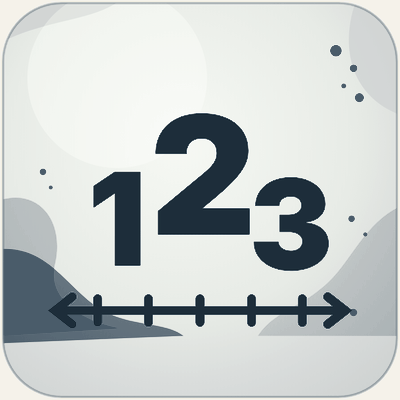
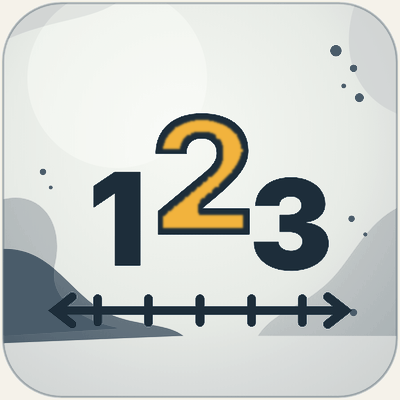
Gult inslag i ikonen för naturliga tal
Claude-Session: https://claude.ai/code/session_01FW4pkRfwxJFFBgcHcFTAjf

Changed region(s): [[0.39, 0.3, 0.63, 0.57]]

diff --git a/index.html b/index.html
@@ -4,11 +4,11 @@
 <meta name="description" content="Problemlösning med blockmodellen: genomgångar steg för steg och interaktiva övningar.">
 <link rel="preconnect" href="https://fonts.googleapis.com"><link rel="preconnect" href="https://fonts.gstatic.com" crossorigin>
 <link href="https://fonts.googleapis.com/css2?family=Fraunces:opsz,wght@9..144,600;9..144,700&family=Inter:wght@400;500;600;700;800;900&display=swap" rel="stylesheet">
-<link rel="icon" href="bilder/logo.svg?v=202611212302" type="image/svg+xml">
-<link rel="stylesheet" href="stil.css?v=202611212302">
+<link rel="icon" href="bilder/logo.svg?v=202611212304" type="image/svg+xml">
+<link rel="stylesheet" href="stil.css?v=202611212304">
 <style>:root{--ink:#253745;--mid:#9BA8AB;--l:#CCD0CF;--vl:#F7F8F8;--w:#F7F8F8;--hi:#9BA8AB;--bg:#F7F8F8;--ram:#CCD0CF;--knapp:#253745;--t:#F7F8F8;--tram:#D5DADA}</style>
 <style>.logo .bmlogo{flex:none}nav a.on{font-weight:800;text-decoration:underline;text-underline-offset:6px}</style></head><body>
-<header><div class="wrap"><a class="logo" href="index.html" aria-label="Mattekompassen, Örtagårdsskolan Malmö"><img src="bilder/kompass.png?v=202611212302" alt="" style="width:46px;height:46px"><span>Mattekompassen<small>Örtagårdsskolan Malmö</small></span></a>
+<header><div class="wrap"><a class="logo" href="index.html" aria-label="Mattekompassen, Örtagårdsskolan Malmö"><img src="bilder/kompass.png?v=202611212304" alt="" style="width:46px;height:46px"><span>Mattekompassen<small>Örtagårdsskolan Malmö</small></span></a>
 <div class="hoger"><nav aria-label="Huvudmeny"><a href="index.html" class="on">Uppgifter</a><a href="trana.html" class="">Slumpade uppgifter</a></nav></div></div></header>
 
 <style>section.panel.panel{background:linear-gradient(115deg,#E3E7E7,#CCD0CF)!important;box-shadow:inset 0 0 0 2px #9BA8AB!important}section.panel.panel h1{color:#11212D!important}section.panel.panel .etikett{color:#253745!important}section.panel.panel .sti,section.panel.panel .sti a{color:#253745!important}section.panel.panel p{color:#253745!important}.kapblock,.ovkort,.np .infobox,.pi-intro div,.pi-info>div{background:linear-gradient(110deg,#F7F8F8,#E3E7E7)!important;border:2px solid #CCD0CF!important;box-shadow:none}.typ,.bg-ruta,.bt-ruta,.bm-steg li,.bm-valj a,.bm-del,.bm-tips li,.pi-omr button,.pisa .enhet,.np .ib4>div,.upg,.r6k,.r6steg div,.r6kap a:not(.forst),.ruta,.kq-lruta{background:#fff!important;border:1.5px solid #D5DADA!important;border-top:6px solid #11212D!important}.kapblock h2,.kapblock h3:first-child,.r6sek,.r6k h3,.typ b,.bm-steg b{color:#253745}.knapp{background:#253745!important;color:#fff!important}</style><style>.panel{background:#E3E7E7!important;box-shadow:inset 0 0 0 2px #9BA8AB}.panel .sti,.panel .sti a{color:#4A5C6A}.panel h1{color:var(--ink)}.panel p{color:#253745;max-width:none}</style><div class="wrap"><section class="panel" style="background:#E3E7E7"><div><h1>Blockmodellen</h1><p>15 genomgångar i naturliga tal, bråk, förhållande och procent, med PPT, PDF och en interaktiv övning till varje. Längst ner finns slumpade uppgifter att träna på.</p></div></section></div><style>
@@ -61,6 +61,6 @@
 .bm-ov a{display:inline-flex;align-items:center;gap:6px;text-decoration:none;font-weight:700;font-size:15px;border-radius:999px;padding:8px 14px;background:#E9ECEC;border:1.5px solid #9BA8AB;color:#06141B}
 .bm-ov a:hover{background:#B4BEC0}.bm-ov a.slump{background:#11212D;border-color:#11212D;color:#fff}.bm-ov a.slump:hover{background:#253745}
 @media (max-width:900px){.bm-gg{grid-template-columns:1fr 1fr}}@media (max-width:600px){.bm-gg{grid-template-columns:1fr}.bm-omr{padding:14px 14px 16px}.bm-omr-h img{width:48px;height:48px;border-radius:12px}.bm-omr-h h2{font-size:21px}}
-</style><details class="bm-tank"><summary><span>Så tänker du</span><small>8 steg för att lösa en uppgift med blockmodellen</small></summary><ol class="bm-steg"><li><b>Läs hela uppgiften</b>Vem eller vad handlar uppgiften om?</li><li><b>Rita blocket</b>Ett block för det hela, eller för den som har minst. Rita de andra utifrån det.</li><li><b>Läs en gång till</b>Skriv in det du vet: talen och delarna som står i texten.</li><li><b>Vad söker vi?</b>Skriv ett ? där svaret ska stå.</li><li><b>Hur delar vi blocket?</b>Dela i lika stora delar. Är bråket eller procenten svår att visa? Dela i mindre delar.</li><li><b>Är det något som stör?</b>En liten extra del, en rabatt eller något som flyttas. Ta bort det och ändra talet.</li><li><b>Hur mycket är en del?</b>Dela talet du vet med antalet delar. Räkna sedan ut det du söker.</li><li><b>Svara och kontrollera</b>Svara med en hel mening. Är svaret rimligt?</li></ol></details><div id="blandade"><section class="bm-omr" id="tal"><div class="bm-omr-h"><img src="bilder/bm-tal.png?v=202611212302" alt=""><div><h2>Naturliga tal</h2><small>6 genomgångar · tre uppgifter i varje</small></div></div><div class="bm-gg"><div><span>1</span><em>Pärlproblemet</em><b><a href="https://drive.google.com/file/d/17Kt0o9oEqbsKeMjQ-DYdjIm5X_vjfPCh/view" target="_blank" rel="noopener">PPT</a><a class="pdf" href="pdf/blandade-02.pdf" target="_blank" rel="noopener">PDF</a><a class="ova" href="ova.html?l=2">Öva</a></b></div><div><span>2</span><em>Ryggsäcksproblemet</em><b><a href="https://drive.google.com/file/d/1OMk2tmF8yoeLj4kfQwA310-q7Bd5yBHd/view" target="_blank" rel="noopener">PPT</a><a class="pdf" href="pdf/blandade-04.pdf" target="_blank" rel="noopener">PDF</a><a class="ova" href="ova.html?l=4">Öva</a></b></div><div><span>3</span><em>Frimärksproblemet</em><b><a href="https://drive.google.com/file/d/1pQglbcg-EiJWTSiU6Dwevq3f0ULDbgb4/view" target="_blank" rel="noopener">PPT</a><a class="pdf" href="pdf/blandade-06.pdf" target="_blank" rel="noopener">PDF</a><a class="ova" href="ova.html?l=6">Öva</a></b></div><div><span>4</span><em>Åldersproblemet</em><b><a href="https://drive.google.com/file/d/1ZTQHDT-lgQtClPZrrIG-9wtgn8gQ7DVU/view" target="_blank" rel="noopener">PPT</a><a class="pdf" href="pdf/blandade-07.pdf" target="_blank" rel="noopener">PDF</a><a class="ova" href="ova.html?l=7">Öva</a></b></div><div><span>5</span><em>Biljettproblemet</em><b><a href="https://drive.google.com/file/d/17ylnughw92XObPvDfJ11sF3EDz65QB5t/view" target="_blank" rel="noopener">PPT</a><a class="pdf" href="pdf/blandade-08.pdf" target="_blank" rel="noopener">PDF</a><a class="ova" href="ova.html?l=8">Öva</a></b></div><div><span>6</span><em>Fickpengsproblemet</em><b><a href="https://drive.google.com/file/d/1dmgQJSduHHs5-DfGUHQt99nVvsS7_g1F/view" target="_blank" rel="noopener">PPT</a><a class="pdf" href="pdf/blandade-11.pdf" target="_blank" rel="noopener">PDF</a><a class="ova" href="ova.html?l=11">Öva</a></b></div></div><div class="bm-ov"><a class="slump" href="trana.html?omr=nat">Slumpade uppgifter: naturliga tal →</a></div></section><section class="bm-omr" id="brak"><div class="bm-omr-h"><img src="bilder/bm-brak.png?v=202611212302" alt=""><div><h2>Bråk</h2><small>3 genomgångar · tre uppgifter i varje</small></div></div><div class="bm-gg"><div><span>7</span><em>Campingproblemet</em><b><a href="https://drive.google.com/file/d/1QBiYS2irVUmERhYtTl7-DSw3yshJLF4N/view" target="_blank" rel="noopener">PPT</a><a class="pdf" href="pdf/blandade-01.pdf" target="_blank" rel="noopener">PDF</a><a class="ova" href="ova.html?l=1">Öva</a></b></div><div><span>8</span><em>Veckopengsproblemet</em><b><a href="https://drive.google.com/file/d/17ZrXr9yd_D8kfU-dGLnqT9yi520G04ab/view" target="_blank" rel="noopener">PPT</a><a class="pdf" href="pdf/blandade-05.pdf" target="_blank" rel="noopener">PDF</a><a class="ova" href="ova.html?l=5">Öva</a></b></div><div><span>9</span><em>Tankproblemet</em><b><a href="https://drive.google.com/file/d/1-d3l4B1OYmZgkZfy7c7Y4uGqGxeNanFu/view" target="_blank" rel="noopener">PPT</a><a class="pdf" href="pdf/blandade-12.pdf" target="_blank" rel="noopener">PDF</a><a class="ova" href="ova.html?l=12">Öva</a></b></div></div><div class="bm-ov"><a class="slump" href="trana.html?omr=brak">Slumpade uppgifter: bråk →</a></div></section><section class="bm-omr" id="forhallande"><div class="bm-omr-h"><img src="bilder/bm-forh.png?v=202611212302" alt=""><div><h2>Förhållande</h2><small>3 genomgångar · tre uppgifter i varje</small></div></div><div class="bm-gg"><div><span>10</span><em>Klubbproblemet</em><b><a href="https://drive.google.com/file/d/17JiUn-39sepv0XO5E1zyIT4X9HXgS92O/view" target="_blank" rel="noopener">PPT</a><a class="pdf" href="pdf/blandade-09.pdf" target="_blank" rel="noopener">PDF</a><a class="ova" href="ova.html?l=9">Öva</a></b></div><div><span>11</span><em>Saftproblemet</em><b><a href="https://drive.google.com/file/d/1-pATagABDABF_cw-JGKHqhd4kZ6KdXIF/view" target="_blank" rel="noopener">PPT</a><a class="pdf" href="pdf/blandade-13.pdf" target="_blank" rel="noopener">PDF</a><a class="ova" href="ova.html?l=13">Öva</a></b></div><div><span>12</span><em>Kortbytesproblemet</em><b><a href="https://drive.google.com/file/d/1OK4lUZ8Qu8js-u6cPWZ_2feRvTf1V2MI/view" target="_blank" rel="noopener">PPT</a><a class="pdf" href="pdf/blandade-14.pdf" target="_blank" rel="noopener">PDF</a><a class="ova" href="ova.html?l=14">Öva</a></b></div></div><div class="bm-ov"><a class="slump" href="trana.html?omr=forh">Slumpade uppgifter: förhållande →</a></div></section><section class="bm-omr" id="procent"><div class="bm-omr-h"><img src="bilder/bm-procent.png?v=202611212302" alt=""><div><h2>Procent</h2><small>3 genomgångar · tre uppgifter i varje</small></div></div><div class="bm-gg"><div><span>13</span><em>Rabatt i procent</em><b><a href="https://drive.google.com/file/d/17fC4mrEaEfd_HCdVPecIEBXufxIfdrN9/view" target="_blank" rel="noopener">PPT</a><a class="pdf" href="pdf/blandade-03.pdf" target="_blank" rel="noopener">PDF</a><a class="ova" href="ova.html?l=3">Öva</a></b></div><div><span>14</span><em>Prishöjningsproblemet</em><b><a href="https://drive.google.com/file/d/1zhxnCQ7BIQ_AB1IeHZQOvBYWyJb_HOE8/view" target="_blank" rel="noopener">PPT</a><a class="pdf" href="pdf/blandade-10.pdf" target="_blank" rel="noopener">PDF</a><a class="ova" href="ova.html?l=10">Öva</a></b></div><div><span>15</span><em>Andelsproblemet</em><b><a href="https://drive.google.com/file/d/1jKR5WJxMUtUbhwYYQ98gQioMq3ddlYSh/view" target="_blank" rel="noopener">PPT</a><a class="pdf" href="pdf/blandade-15.pdf" target="_blank" rel="noopener">PDF</a><a class="ova" href="ova.html?l=15">Öva</a></b></div></div><div class="bm-ov"><a class="slump" href="trana.html?omr=proc">Slumpade uppgifter: procent →</a></div></section></div><a class="bm-slump" href="trana.html"><span class="bm-slump-t"><b>Slumpade uppgifter</b><small>Blandat från alla områden, med nya tal och namn varje gång. Lös dem steg för steg.</small></span><em>Starta →</em></a></div></section></main><style>.m6h i.eik{width:60px!important;height:60px!important}.bm-valj i.eik{width:58px!important;height:58px!important}.bm-del>i.eik{width:64px!important;height:64px!important}</style>
+</style><details class="bm-tank"><summary><span>Så tänker du</span><small>8 steg för att lösa en uppgift med blockmodellen</small></summary><ol class="bm-steg"><li><b>Läs hela uppgiften</b>Vem eller vad handlar uppgiften om?</li><li><b>Rita blocket</b>Ett block för det hela, eller för den som har minst. Rita de andra utifrån det.</li><li><b>Läs en gång till</b>Skriv in det du vet: talen och delarna som står i texten.</li><li><b>Vad söker vi?</b>Skriv ett ? där svaret ska stå.</li><li><b>Hur delar vi blocket?</b>Dela i lika stora delar. Är bråket eller procenten svår att visa? Dela i mindre delar.</li><li><b>Är det något som stör?</b>En liten extra del, en rabatt eller något som flyttas. Ta bort det och ändra talet.</li><li><b>Hur mycket är en del?</b>Dela talet du vet med antalet delar. Räkna sedan ut det du söker.</li><li><b>Svara och kontrollera</b>Svara med en hel mening. Är svaret rimligt?</li></ol></details><div id="blandade"><section class="bm-omr" id="tal"><div class="bm-omr-h"><img src="bilder/bm-tal.png?v=202611212304" alt=""><div><h2>Naturliga tal</h2><small>6 genomgångar · tre uppgifter i varje</small></div></div><div class="bm-gg"><div><span>1</span><em>Pärlproblemet</em><b><a href="https://drive.google.com/file/d/17Kt0o9oEqbsKeMjQ-DYdjIm5X_vjfPCh/view" target="_blank" rel="noopener">PPT</a><a class="pdf" href="pdf/blandade-02.pdf" target="_blank" rel="noopener">PDF</a><a class="ova" href="ova.html?l=2">Öva</a></b></div><div><span>2</span><em>Ryggsäcksproblemet</em><b><a href="https://drive.google.com/file/d/1OMk2tmF8yoeLj4kfQwA310-q7Bd5yBHd/view" target="_blank" rel="noopener">PPT</a><a class="pdf" href="pdf/blandade-04.pdf" target="_blank" rel="noopener">PDF</a><a class="ova" href="ova.html?l=4">Öva</a></b></div><div><span>3</span><em>Frimärksproblemet</em><b><a href="https://drive.google.com/file/d/1pQglbcg-EiJWTSiU6Dwevq3f0ULDbgb4/view" target="_blank" rel="noopener">PPT</a><a class="pdf" href="pdf/blandade-06.pdf" target="_blank" rel="noopener">PDF</a><a class="ova" href="ova.html?l=6">Öva</a></b></div><div><span>4</span><em>Åldersproblemet</em><b><a href="https://drive.google.com/file/d/1ZTQHDT-lgQtClPZrrIG-9wtgn8gQ7DVU/view" target="_blank" rel="noopener">PPT</a><a class="pdf" href="pdf/blandade-07.pdf" target="_blank" rel="noopener">PDF</a><a class="ova" href="ova.html?l=7">Öva</a></b></div><div><span>5</span><em>Biljettproblemet</em><b><a href="https://drive.google.com/file/d/17ylnughw92XObPvDfJ11sF3EDz65QB5t/view" target="_blank" rel="noopener">PPT</a><a class="pdf" href="pdf/blandade-08.pdf" target="_blank" rel="noopener">PDF</a><a class="ova" href="ova.html?l=8">Öva</a></b></div><div><span>6</span><em>Fickpengsproblemet</em><b><a href="https://drive.google.com/file/d/1dmgQJSduHHs5-DfGUHQt99nVvsS7_g1F/view" target="_blank" rel="noopener">PPT</a><a class="pdf" href="pdf/blandade-11.pdf" target="_blank" rel="noopener">PDF</a><a class="ova" href="ova.html?l=11">Öva</a></b></div></div><div class="bm-ov"><a class="slump" href="trana.html?omr=nat">Slumpade uppgifter: naturliga tal →</a></div></section><section class="bm-omr" id="brak"><div class="bm-omr-h"><img src="bilder/bm-brak.png?v=202611212304" alt=""><div><h2>Bråk</h2><small>3 genomgångar · tre uppgifter i varje</small></div></div><div class="bm-gg"><div><span>7</span><em>Campingproblemet</em><b><a href="https://drive.google.com/file/d/1QBiYS2irVUmERhYtTl7-DSw3yshJLF4N/view" target="_blank" rel="noopener">PPT</a><a class="pdf" href="pdf/blandade-01.pdf" target="_blank" rel="noopener">PDF</a><a class="ova" href="ova.html?l=1">Öva</a></b></div><div><span>8</span><em>Veckopengsproblemet</em><b><a href="https://drive.google.com/file/d/17ZrXr9yd_D8kfU-dGLnqT9yi520G04ab/view" target="_blank" rel="noopener">PPT</a><a class="pdf" href="pdf/blandade-05.pdf" target="_blank" rel="noopener">PDF</a><a class="ova" href="ova.html?l=5">Öva</a></b></div><div><span>9</span><em>Tankproblemet</em><b><a href="https://drive.google.com/file/d/1-d3l4B1OYmZgkZfy7c7Y4uGqGxeNanFu/view" target="_blank" rel="noopener">PPT</a><a class="pdf" href="pdf/blandade-12.pdf" target="_blank" rel="noopener">PDF</a><a class="ova" href="ova.html?l=12">Öva</a></b></div></div><div class="bm-ov"><a class="slump" href="trana.html?omr=brak">Slumpade uppgifter: bråk →</a></div></section><section class="bm-omr" id="forhallande"><div class="bm-omr-h"><img src="bilder/bm-forh.png?v=202611212304" alt=""><div><h2>Förhållande</h2><small>3 genomgångar · tre uppgifter i varje</small></div></div><div class="bm-gg"><div><span>10</span><em>Klubbproblemet</em><b><a href="https://drive.google.com/file/d/17JiUn-39sepv0XO5E1zyIT4X9HXgS92O/view" target="_blank" rel="noopener">PPT</a><a class="pdf" href="pdf/blandade-09.pdf" target="_blank" rel="noopener">PDF</a><a class="ova" href="ova.html?l=9">Öva</a></b></div><div><span>11</span><em>Saftproblemet</em><b><a href="https://drive.google.com/file/d/1-pATagABDABF_cw-JGKHqhd4kZ6KdXIF/view" target="_blank" rel="noopener">PPT</a><a class="pdf" href="pdf/blandade-13.pdf" target="_blank" rel="noopener">PDF</a><a class="ova" href="ova.html?l=13">Öva</a></b></div><div><span>12</span><em>Kortbytesproblemet</em><b><a href="https://drive.google.com/file/d/1OK4lUZ8Qu8js-u6cPWZ_2feRvTf1V2MI/view" target="_blank" rel="noopener">PPT</a><a class="pdf" href="pdf/blandade-14.pdf" target="_blank" rel="noopener">PDF</a><a class="ova" href="ova.html?l=14">Öva</a></b></div></div><div class="bm-ov"><a class="slump" href="trana.html?omr=forh">Slumpade uppgifter: förhållande →</a></div></section><section class="bm-omr" id="procent"><div class="bm-omr-h"><img src="bilder/bm-procent.png?v=202611212304" alt=""><div><h2>Procent</h2><small>3 genomgångar · tre uppgifter i varje</small></div></div><div class="bm-gg"><div><span>13</span><em>Rabatt i procent</em><b><a href="https://drive.google.com/file/d/17fC4mrEaEfd_HCdVPecIEBXufxIfdrN9/view" target="_blank" rel="noopener">PPT</a><a class="pdf" href="pdf/blandade-03.pdf" target="_blank" rel="noopener">PDF</a><a class="ova" href="ova.html?l=3">Öva</a></b></div><div><span>14</span><em>Prishöjningsproblemet</em><b><a href="https://drive.google.com/file/d/1zhxnCQ7BIQ_AB1IeHZQOvBYWyJb_HOE8/view" target="_blank" rel="noopener">PPT</a><a class="pdf" href="pdf/blandade-10.pdf" target="_blank" rel="noopener">PDF</a><a class="ova" href="ova.html?l=10">Öva</a></b></div><div><span>15</span><em>Andelsproblemet</em><b><a href="https://drive.google.com/file/d/1jKR5WJxMUtUbhwYYQ98gQioMq3ddlYSh/view" target="_blank" rel="noopener">PPT</a><a class="pdf" href="pdf/blandade-15.pdf" target="_blank" rel="noopener">PDF</a><a class="ova" href="ova.html?l=15">Öva</a></b></div></div><div class="bm-ov"><a class="slump" href="trana.html?omr=proc">Slumpade uppgifter: procent →</a></div></section></div><a class="bm-slump" href="trana.html"><span class="bm-slump-t"><b>Slumpade uppgifter</b><small>Blandat från alla områden, med nya tal och namn varje gång. Lös dem steg för steg.</small></span><em>Starta →</em></a></div></section></main><style>.m6h i.eik{width:60px!important;height:60px!important}.bm-valj i.eik{width:58px!important;height:58px!important}.bm-del>i.eik{width:64px!important;height:64px!important}</style>
 <footer><div class="wrap"><b>Blockmodellen – en del av Mattekompassen</b><span><a href="https://mattekompassen.se" style="color:inherit;font-weight:700">Till Mattekompassen: mattekompassen.se →</a></span></div></footer>
 </body></html>

diff --git a/ova.html b/ova.html
@@ -4,11 +4,11 @@
 <meta name="description" content="Interaktiv övning till genomgångarna med blockmodellen.">
 <link rel="preconnect" href="https://fonts.googleapis.com"><link rel="preconnect" href="https://fonts.gstatic.com" crossorigin>
 <link href="https://fonts.googleapis.com/css2?family=Fraunces:opsz,wght@9..144,600;9..144,700&family=Inter:wght@400;500;600;700;800;900&display=swap" rel="stylesheet">
-<link rel="icon" href="bilder/logo.svg?v=202611212302" type="image/svg+xml">
-<link rel="stylesheet" href="stil.css?v=202611212302">
+<link rel="icon" href="bilder/logo.svg?v=202611212304" type="image/svg+xml">
+<link rel="stylesheet" href="stil.css?v=202611212304">
 <style>:root{--ink:#253745;--mid:#9BA8AB;--l:#CCD0CF;--vl:#F7F8F8;--w:#F7F8F8;--hi:#9BA8AB;--bg:#F7F8F8;--ram:#CCD0CF;--knapp:#253745;--t:#F7F8F8;--tram:#D5DADA}</style>
 <style>.logo .bmlogo{flex:none}nav a.on{font-weight:800;text-decoration:underline;text-underline-offset:6px}</style></head><body>
-<header><div class="wrap"><a class="logo" href="index.html" aria-label="Mattekompassen, Örtagårdsskolan Malmö"><img src="bilder/kompass.png?v=202611212302" alt="" style="width:46px;height:46px"><span>Mattekompassen<small>Örtagårdsskolan Malmö</small></span></a>
+<header><div class="wrap"><a class="logo" href="index.html" aria-label="Mattekompassen, Örtagårdsskolan Malmö"><img src="bilder/kompass.png?v=202611212304" alt="" style="width:46px;height:46px"><span>Mattekompassen<small>Örtagårdsskolan Malmö</small></span></a>
 <div class="hoger"><nav aria-label="Huvudmeny"><a href="index.html" class="">Uppgifter</a><a href="trana.html" class="">Slumpade uppgifter</a></nav></div></div></header>
 
 <style>section.panel.panel{background:linear-gradient(115deg,#E3E7E7,#CCD0CF)!important;box-shadow:inset 0 0 0 2px #9BA8AB!important}section.panel.panel h1{color:#11212D!important}section.panel.panel .etikett{color:#253745!important}section.panel.panel .sti,section.panel.panel .sti a{color:#253745!important}section.panel.panel p{color:#253745!important}.kapblock,.ovkort,.np .infobox,.pi-intro div,.pi-info>div{background:linear-gradient(110deg,#F7F8F8,#E3E7E7)!important;border:2px solid #CCD0CF!important;box-shadow:none}.typ,.bg-ruta,.bt-ruta,.bm-steg li,.bm-valj a,.bm-del,.bm-tips li,.pi-omr button,.pisa .enhet,.np .ib4>div,.upg,.r6k,.r6steg div,.r6kap a:not(.forst),.ruta,.kq-lruta{background:#fff!important;border:1.5px solid #D5DADA!important;border-top:6px solid #11212D!important}.kapblock h2,.kapblock h3:first-child,.r6sek,.r6k h3,.typ b,.bm-steg b{color:#253745}.knapp{background:#253745!important;color:#fff!important}</style><style>.panel{background:#E3E7E7!important;box-shadow:inset 0 0 0 2px #9BA8AB}.panel .sti,.panel .sti a{color:#4A5C6A}.panel h1{color:var(--ink)}.panel p{color:#253745;max-width:none}</style><div class="wrap"><section class="panel" style="background:#E3E7E7"><div><h1><a href="index.html" style="color:inherit;text-decoration:none">Blockmodellen</a></h1><p><span class="bm-under">Öva: blandade uppgifter</span>Samma tre uppgifter som i genomgången, men med nya tal. Lös dem steg för steg med blocken.</p></div></section></div><style>
@@ -55,6 +55,6 @@
 .bmo-prog span.nu{background:#11212D;color:#fff;border-color:#11212D}.bmo-prog span.klar{background:#D9DEDE;border-color:#2E6B5E;color:#24564B}
 .bmo-allt{margin:14px 0 0;font-size:16px;font-weight:700;color:#24564B}
 </style><style>.panel p .bm-under{display:block;font-family:Inter,sans-serif;font-weight:800;font-size:22px;color:#3D4F5C;margin:0 0 6px}</style>
-<main><section><div class="wrap"><div id="bmova"></div><div style="max-width:900px;margin:22px auto 0"><a class="knapp" href="index.html#blandade">← Alla genomgångar</a></div></div></section></main><script src="js/blandade-ova.js?v=202611212302"></script><script src="js/blockmodell-ova.js?v=202611212302"></script><script>(function(){var L={"2": ["Pärlproblemet", "Naturliga tal", "tal"], "4": ["Ryggsäcksproblemet", "Naturliga tal", "tal"], "6": ["Frimärksproblemet", "Naturliga tal", "tal"], "7": ["Åldersproblemet", "Naturliga tal", "tal"], "8": ["Biljettproblemet", "Naturliga tal", "tal"], "11": ["Fickpengsproblemet", "Naturliga tal", "tal"], "1": ["Campingproblemet", "Bråk", "brak"], "5": ["Veckopengsproblemet", "Bråk", "brak"], "12": ["Tankproblemet", "Bråk", "brak"], "9": ["Klubbproblemet", "Förhållande", "forhallande"], "13": ["Saftproblemet", "Förhållande", "forhallande"], "14": ["Kortbytesproblemet", "Förhållande", "forhallande"], "3": ["Rabatt i procent", "Procent", "procent"], "10": ["Prishöjningsproblemet", "Procent", "procent"], "15": ["Andelsproblemet", "Procent", "procent"]},l=new URLSearchParams(location.search).get("l")||"1",x=L[l];if(!x)return;var u=document.querySelector(".bm-under");if(u)u.textContent="Öva: "+x[1].toLowerCase();document.title="Öva: "+x[0]+" – Blockmodellen";var k=document.querySelector("main a.knapp");if(k){k.href="index.html#"+x[2];k.textContent="← "+x[1]}})()</script><style>.m6h i.eik{width:60px!important;height:60px!important}.bm-valj i.eik{width:58px!important;height:58px!important}.bm-del>i.eik{width:64px!important;height:64px!important}</style>
+<main><section><div class="wrap"><div id="bmova"></div><div style="max-width:900px;margin:22px auto 0"><a class="knapp" href="index.html#blandade">← Alla genomgångar</a></div></div></section></main><script src="js/blandade-ova.js?v=202611212304"></script><script src="js/blockmodell-ova.js?v=202611212304"></script><script>(function(){var L={"2": ["Pärlproblemet", "Naturliga tal", "tal"], "4": ["Ryggsäcksproblemet", "Naturliga tal", "tal"], "6": ["Frimärksproblemet", "Naturliga tal", "tal"], "7": ["Åldersproblemet", "Naturliga tal", "tal"], "8": ["Biljettproblemet", "Naturliga tal", "tal"], "11": ["Fickpengsproblemet", "Naturliga tal", "tal"], "1": ["Campingproblemet", "Bråk", "brak"], "5": ["Veckopengsproblemet", "Bråk", "brak"], "12": ["Tankproblemet", "Bråk", "brak"], "9": ["Klubbproblemet", "Förhållande", "forhallande"], "13": ["Saftproblemet", "Förhållande", "forhallande"], "14": ["Kortbytesproblemet", "Förhållande", "forhallande"], "3": ["Rabatt i procent", "Procent", "procent"], "10": ["Prishöjningsproblemet", "Procent", "procent"], "15": ["Andelsproblemet", "Procent", "procent"]},l=new URLSearchParams(location.search).get("l")||"1",x=L[l];if(!x)return;var u=document.querySelector(".bm-under");if(u)u.textContent="Öva: "+x[1].toLowerCase();document.title="Öva: "+x[0]+" – Blockmodellen";var k=document.querySelector("main a.knapp");if(k){k.href="index.html#"+x[2];k.textContent="← "+x[1]}})()</script><style>.m6h i.eik{width:60px!important;height:60px!important}.bm-valj i.eik{width:58px!important;height:58px!important}.bm-del>i.eik{width:64px!important;height:64px!important}</style>
 <footer><div class="wrap"><b>Blockmodellen – en del av Mattekompassen</b><span><a href="https://mattekompassen.se" style="color:inherit;font-weight:700">Till Mattekompassen: mattekompassen.se →</a></span></div></footer>
 </body></html>

diff --git a/trana.html b/trana.html
@@ -4,11 +4,11 @@
 <meta name="description" content="Interaktiva övningar med blockmodellen, nya tal varje gång.">
 <link rel="preconnect" href="https://fonts.googleapis.com"><link rel="preconnect" href="https://fonts.gstatic.com" crossorigin>
 <link href="https://fonts.googleapis.com/css2?family=Fraunces:opsz,wght@9..144,600;9..144,700&family=Inter:wght@400;500;600;700;800;900&display=swap" rel="stylesheet">
-<link rel="icon" href="bilder/logo.svg?v=202611212302" type="image/svg+xml">
-<link rel="stylesheet" href="stil.css?v=202611212302">
+<link rel="icon" href="bilder/logo.svg?v=202611212304" type="image/svg+xml">
+<link rel="stylesheet" href="stil.css?v=202611212304">
 <style>:root{--ink:#253745;--mid:#9BA8AB;--l:#CCD0CF;--vl:#F7F8F8;--w:#F7F8F8;--hi:#9BA8AB;--bg:#F7F8F8;--ram:#CCD0CF;--knapp:#253745;--t:#F7F8F8;--tram:#D5DADA}</style>
 <style>.logo .bmlogo{flex:none}nav a.on{font-weight:800;text-decoration:underline;text-underline-offset:6px}</style></head><body>
-<header><div class="wrap"><a class="logo" href="index.html" aria-label="Mattekompassen, Örtagårdsskolan Malmö"><img src="bilder/kompass.png?v=202611212302" alt="" style="width:46px;height:46px"><span>Mattekompassen<small>Örtagårdsskolan Malmö</small></span></a>
+<header><div class="wrap"><a class="logo" href="index.html" aria-label="Mattekompassen, Örtagårdsskolan Malmö"><img src="bilder/kompass.png?v=202611212304" alt="" style="width:46px;height:46px"><span>Mattekompassen<small>Örtagårdsskolan Malmö</small></span></a>
 <div class="hoger"><nav aria-label="Huvudmeny"><a href="index.html" class="">Uppgifter</a><a href="trana.html" class="on">Slumpade uppgifter</a></nav></div></div></header>
 
 <style>section.panel.panel{background:linear-gradient(115deg,#E3E7E7,#CCD0CF)!important;box-shadow:inset 0 0 0 2px #9BA8AB!important}section.panel.panel h1{color:#11212D!important}section.panel.panel .etikett{color:#253745!important}section.panel.panel .sti,section.panel.panel .sti a{color:#253745!important}section.panel.panel p{color:#253745!important}.kapblock,.ovkort,.np .infobox,.pi-intro div,.pi-info>div{background:linear-gradient(110deg,#F7F8F8,#E3E7E7)!important;border:2px solid #CCD0CF!important;box-shadow:none}.typ,.bg-ruta,.bt-ruta,.bm-steg li,.bm-valj a,.bm-del,.bm-tips li,.pi-omr button,.pisa .enhet,.np .ib4>div,.upg,.r6k,.r6steg div,.r6kap a:not(.forst),.ruta,.kq-lruta{background:#fff!important;border:1.5px solid #D5DADA!important;border-top:6px solid #11212D!important}.kapblock h2,.kapblock h3:first-child,.r6sek,.r6k h3,.typ b,.bm-steg b{color:#253745}.knapp{background:#253745!important;color:#fff!important}</style><style>.panel{background:#E3E7E7!important;box-shadow:inset 0 0 0 2px #9BA8AB}.panel .sti,.panel .sti a{color:#4A5C6A}.panel h1{color:var(--ink)}.panel p{color:#253745;max-width:none}</style><div class="wrap"><section class="panel" style="background:#E3E7E7"><div><h1><a href="index.html" style="color:inherit;text-decoration:none">Blockmodellen</a></h1><p><span class="bm-under">Slumpade uppgifter</span>Välj ett område eller blandat. Du får en ny uppgift med nya tal varje gång och löser den steg för steg med blocken.</p></div></section></div><style>
@@ -55,6 +55,6 @@
 .bmo-prog span.nu{background:#11212D;color:#fff;border-color:#11212D}.bmo-prog span.klar{background:#D9DEDE;border-color:#2E6B5E;color:#24564B}
 .bmo-allt{margin:14px 0 0;font-size:16px;font-weight:700;color:#24564B}
 </style><style>.panel p .bm-under{display:block;font-family:Inter,sans-serif;font-weight:800;font-size:22px;color:#3D4F5C;margin:0 0 6px}</style>
-<main><section><div class="wrap"><div id="bmova"></div><div style="max-width:900px;margin:22px auto 0"><a class="knapp" href="index.html">← Till startsidan</a></div></div></section></main><script src="js/blockmodell-ova.js?v=202611212302"></script><script>(function(){var O={"nat": "naturliga tal", "brak": "bråk", "forh": "förhållande", "proc": "procent"},o=new URLSearchParams(location.search).get("omr");if(!O[o])return;var u=document.querySelector(".bm-under");if(u)u.textContent="Slumpade uppgifter: "+O[o]})()</script><style>.m6h i.eik{width:60px!important;height:60px!important}.bm-valj i.eik{width:58px!important;height:58px!important}.bm-del>i.eik{width:64px!important;height:64px!important}</style>
+<main><section><div class="wrap"><div id="bmova"></div><div style="max-width:900px;margin:22px auto 0"><a class="knapp" href="index.html">← Till startsidan</a></div></div></section></main><script src="js/blockmodell-ova.js?v=202611212304"></script><script>(function(){var O={"nat": "naturliga tal", "brak": "bråk", "forh": "förhållande", "proc": "procent"},o=new URLSearchParams(location.search).get("omr");if(!O[o])return;var u=document.querySelector(".bm-under");if(u)u.textContent="Slumpade uppgifter: "+O[o]})()</script><style>.m6h i.eik{width:60px!important;height:60px!important}.bm-valj i.eik{width:58px!important;height:58px!important}.bm-del>i.eik{width:64px!important;height:64px!important}</style>
 <footer><div class="wrap"><b>Blockmodellen – en del av Mattekompassen</b><span><a href="https://mattekompassen.se" style="color:inherit;font-weight:700">Till Mattekompassen: mattekompassen.se →</a></span></div></footer>
 </body></html>
